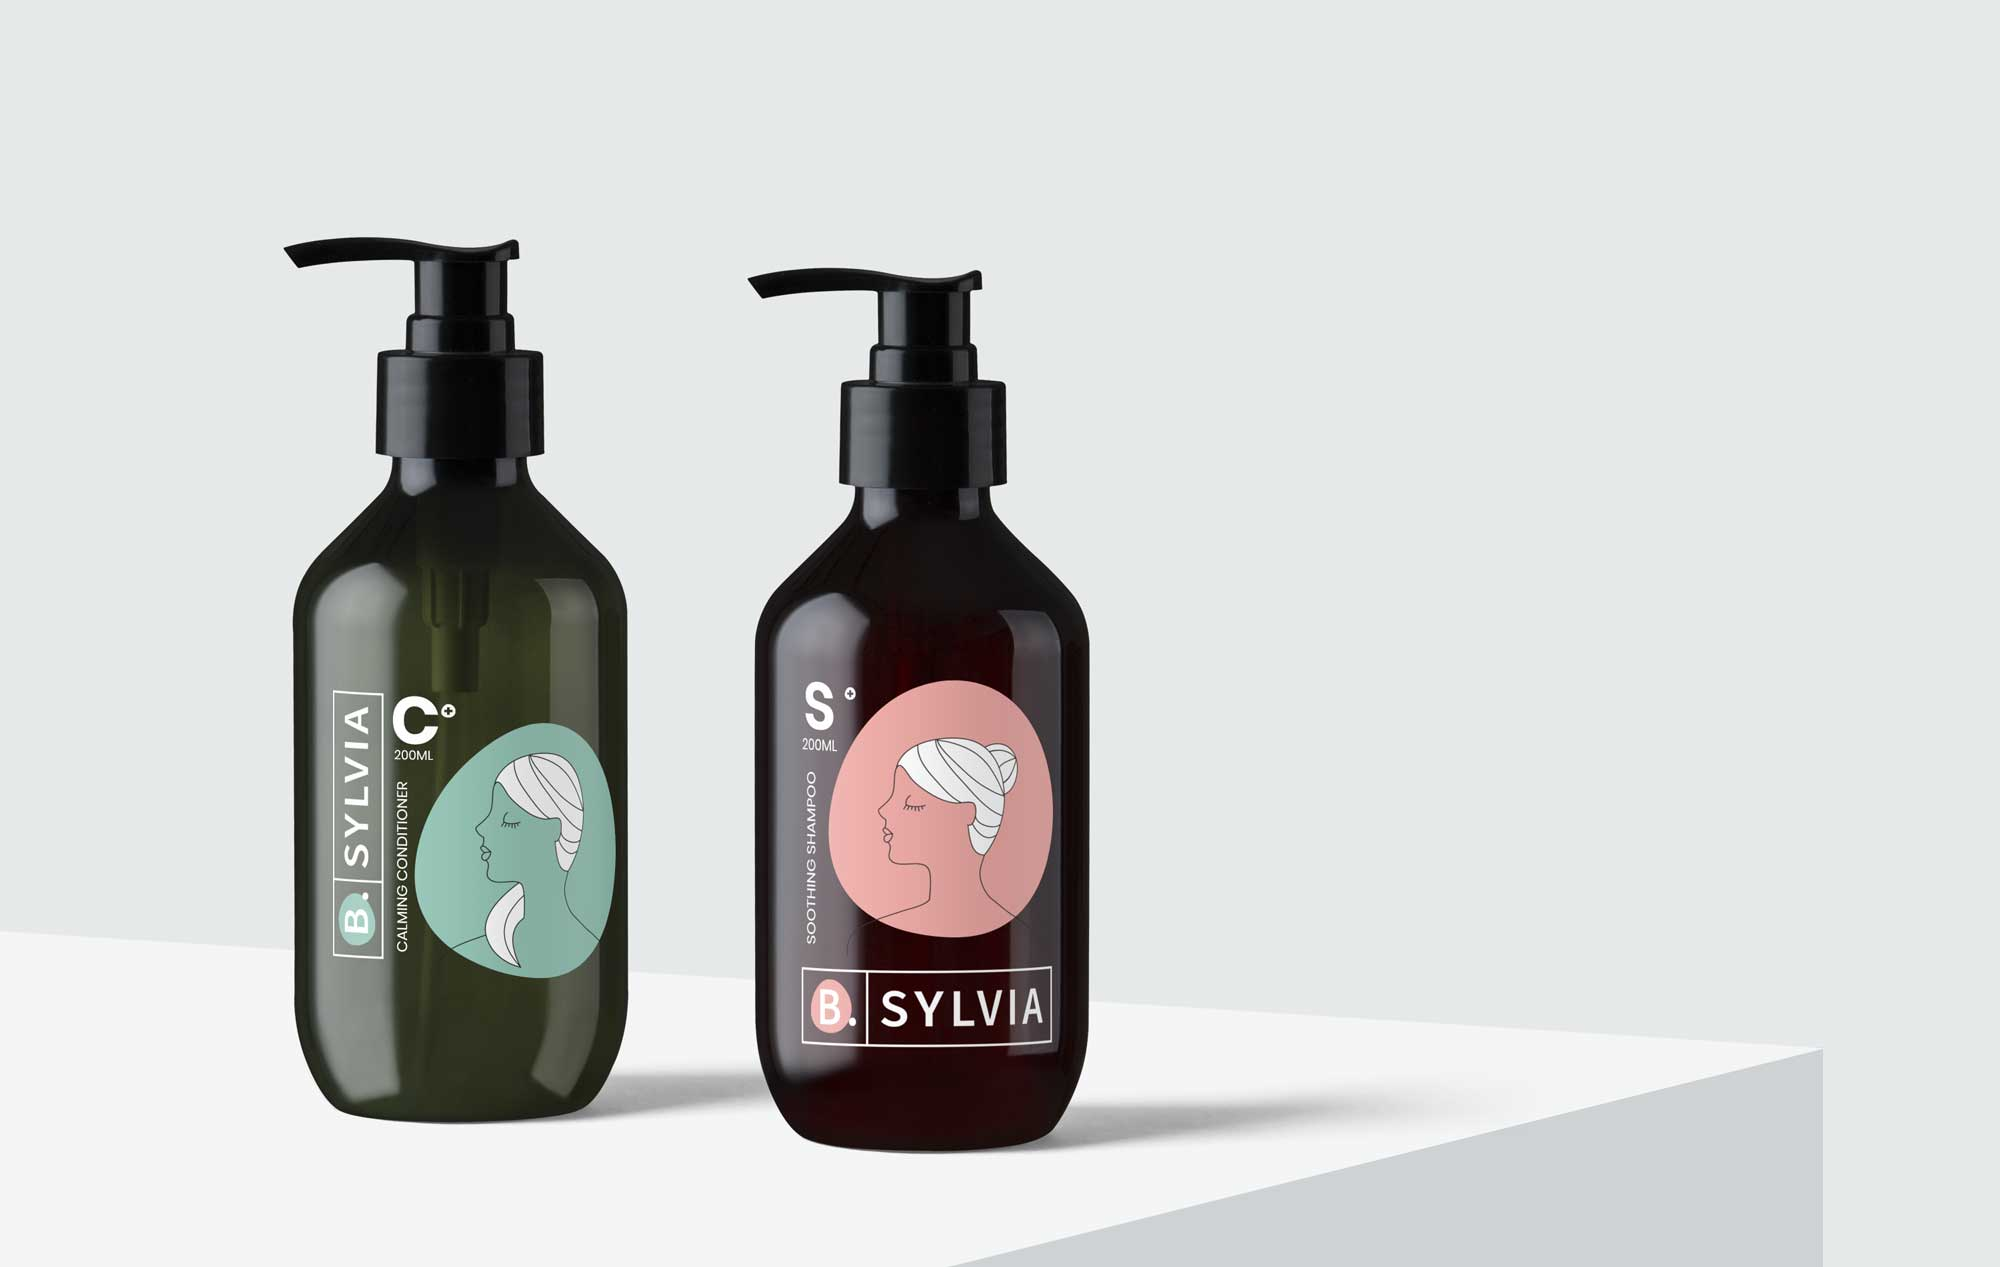
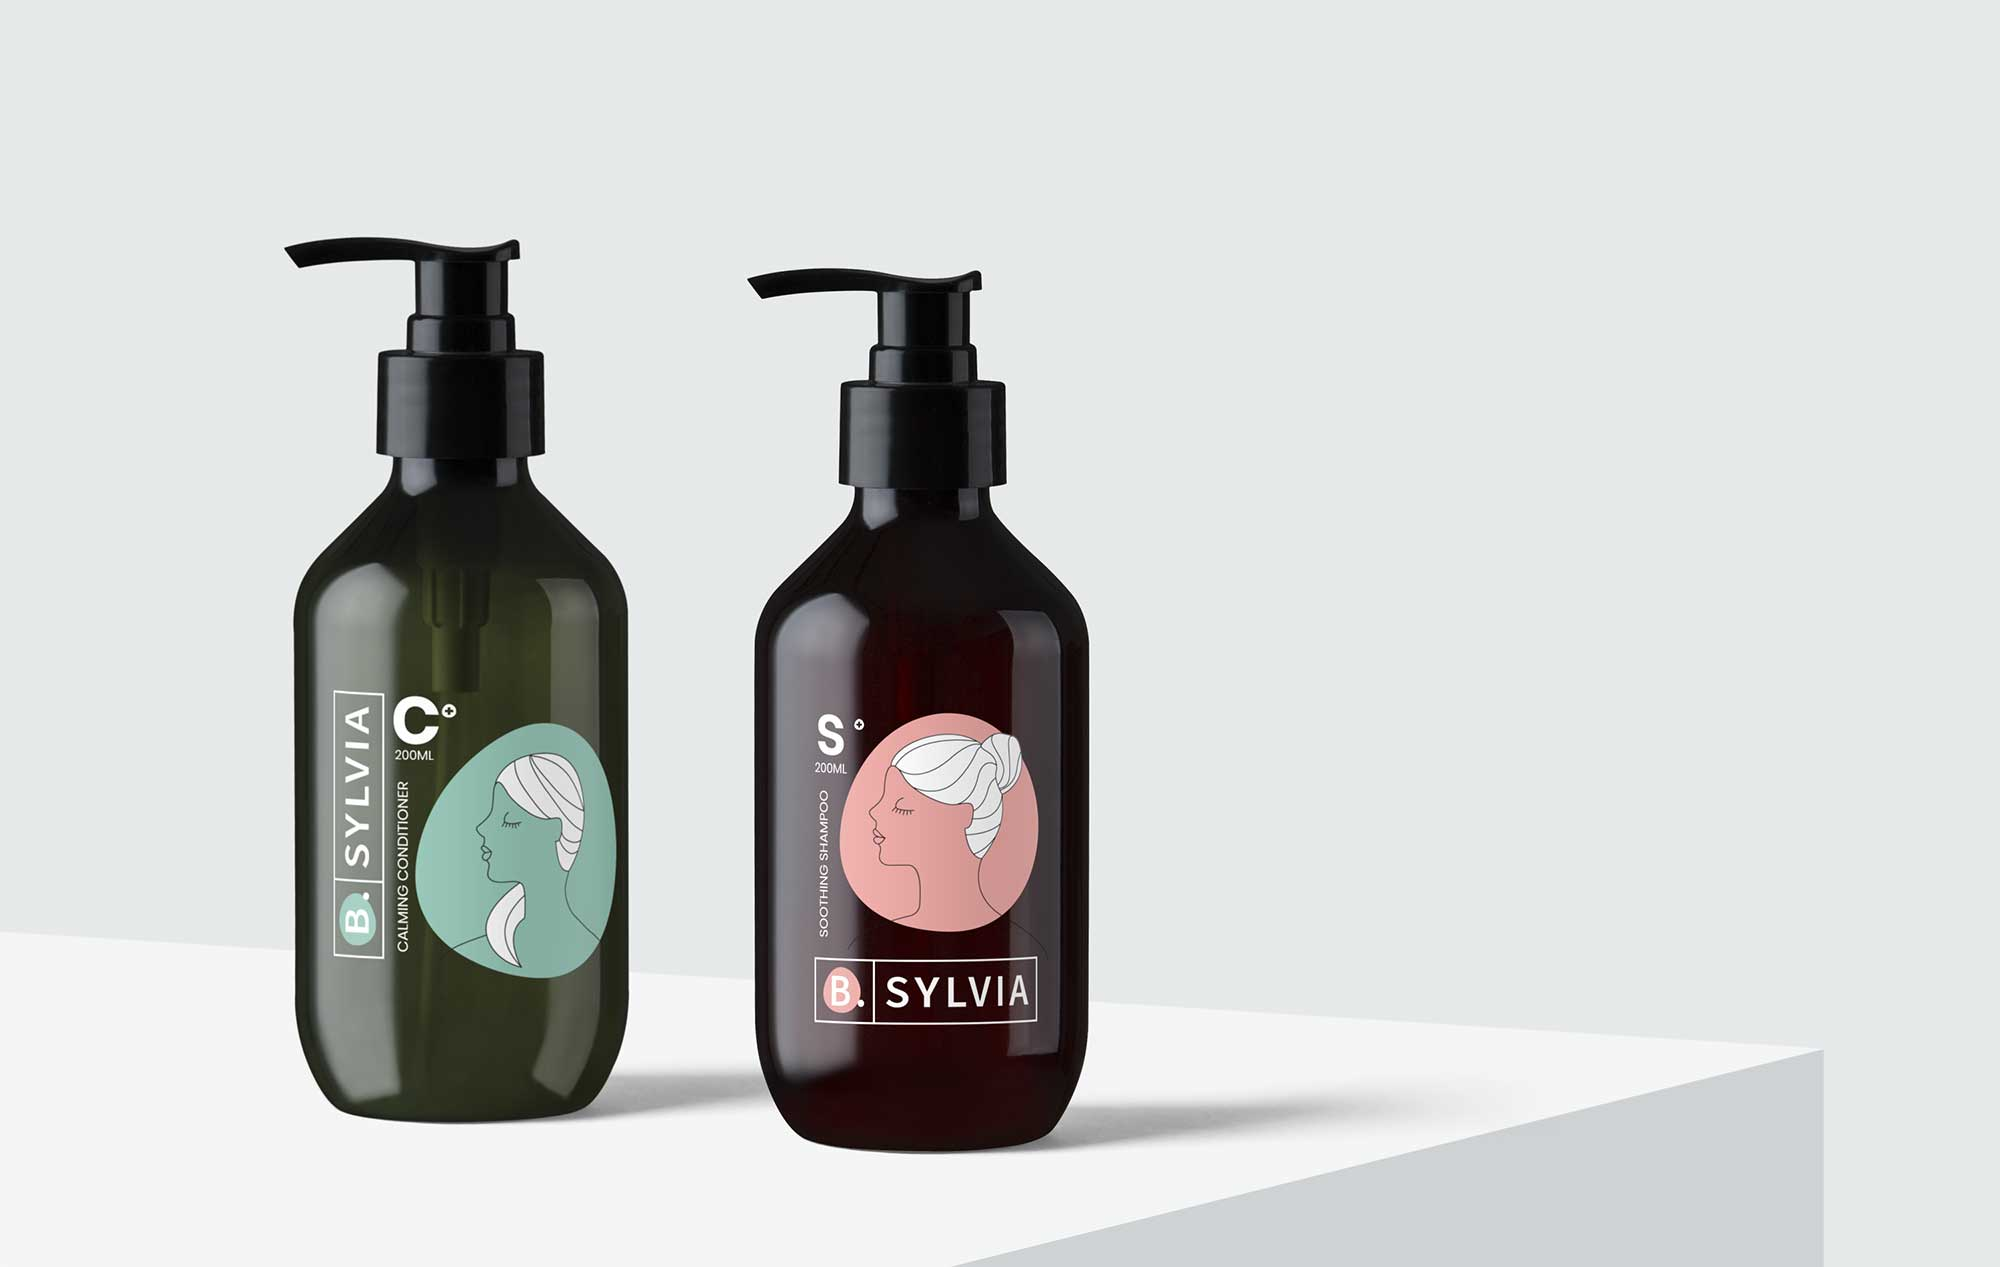
update

diff --git a/index.html b/index.html
@@ -11,6 +11,7 @@
   <link rel="stylesheet" href="https://use.typekit.net/rim6opn.css">
   <link rel="stylesheet" href="https://maxcdn.bootstrapcdn.com/bootstrap/4.0.0/css/bootstrap.min.css" integrity="sha384-Gn5384xqQ1aoWXA+058RXPxPg6fy4IWvTNh0E263XmFcJlSAwiGgFAW/dAiS6JXm" crossorigin="anonymous">
   <link rel="stylesheet" type="text/css" href="css/styles.css" />
+  <link rel="icon" href="img/favicon.png" type="image/x-icon" />
 </head>
 
 <body class="is-loading">
@@ -25,7 +26,7 @@
     <section class="">
         <div class="container-fluid">
         <nav class="navbar navbar-expand-lg navbar-light fixed-top">
-        <a class="navbar-brand" href="#">
+        <a class="navbar-brand" href="/" target="_blank">
         <!-- <img src="img/sylvia-logo.png"> -->
         <svg  x="0px" y="0px" viewBox="0 0 761 212" style="enable-background:new 0 0 761 212;" xml:space="preserve">
 
@@ -85,7 +86,7 @@
       </div>
 
       <div class="col-sm-12 col-md-6 col-lg-4 d-none d-md-block" >
-        <img src="img/002D.png" class="img-fluid hello">
+        <img src="img/01-bottle.png" class="img-fluid hello">
       </div>
 
       <div class="col-sm-12 col-md-6 col-lg-4 px-0 bg-white feature-cont">
@@ -570,7 +571,7 @@
         <div class="col-sm-12 col-lg-12 double-cont text-center">
             <div class="row row-eq-height">
               <div class="col-md-4 ">
-                <img src="img/01-bottle-a.png" class="img-fluid">
+                <img src="img/04-bottle.png" class="img-fluid">
                 <a href="#products">
                 <h4><b>B.</b><span>Shampoo <i class="fas fa-arrow-right fa-1x"></i></span></h4>
               </a>

diff --git a/js/script.js b/js/script.js
@@ -132,23 +132,36 @@ $(".full-img-feature").each(function() {
   });
 
 // scroll screenLeft 
-
 if (!Modernizr.touch){
+
 var tween = new TimelineMax();
-tween.to('.scroll-left', 1, {	x:'-150%'},0)
+
+tween.to('.scroll-left', 1, {	x:'-150%' },)
 
 var scene = new ScrollMagic.Scene({
 	triggerElement: '.testimonials',
-	duration:'400%',
+	duration:'200%',
 	triggerHook: '0',
 	offset:'200',
-	reverse: true
 	})
-
 	.setPin('.testimonials')
 	.setTween(tween)
-	.addTo(controller)
+	.addTo(controller)	
+
+
+
 }
+
+// scene.on("enter", function (event) {
+// 	// add custom action
+// 	$("#my-elem").left("200");
+//   })
+//   .on("destroy", function (event) {
+// 	// reset my element to start position
+// 	if (event.reset) {
+// 	  $("#my-elem").left("0");
+// 	}
+//   });
 
 
 if ($( window ).width() >= 768) {
@@ -160,6 +173,11 @@ var scene = new ScrollMagic.Scene({triggerElement: ".usp", offset:'150' })
 .setTween(tween)
 .addTo(controller)
 
+tween.to('.navbar', 1, {backgroundColor:'#fff'},0)
+.to('.nav-item', 1, {color:'#333'},0)
+var scene = new ScrollMagic.Scene({triggerElement: "#usp", offset:0,  triggerHook:0})
+.setTween(tween)
+.addTo(controller)
 
 var tween = new TimelineMax();
 tween.to('.navbar', 1, {backgroundColor:'#fff'},0)
